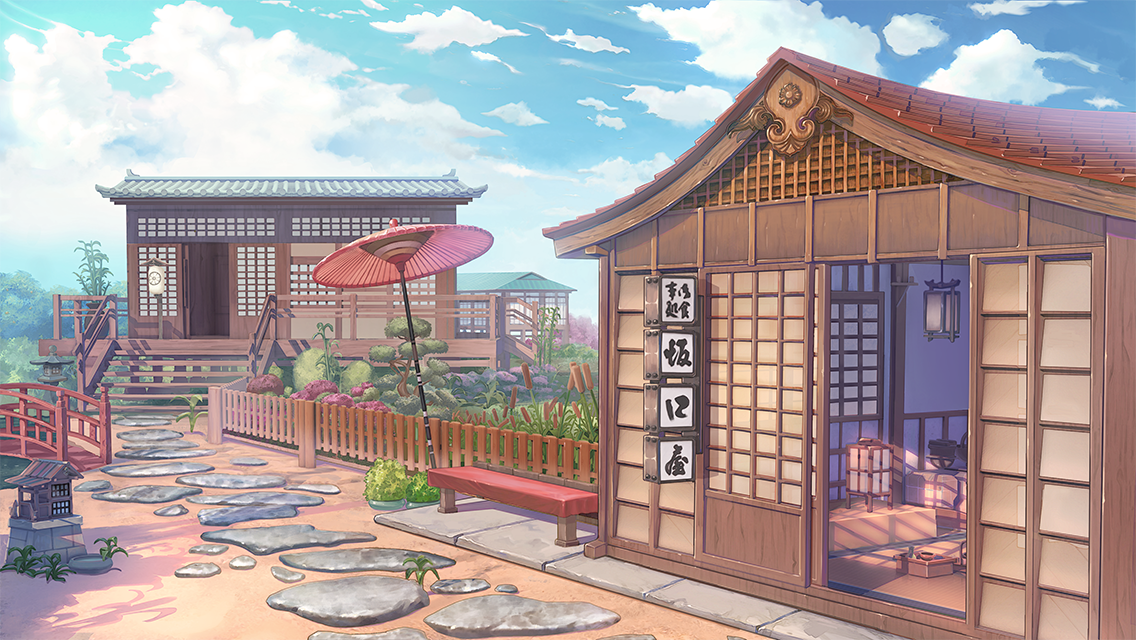
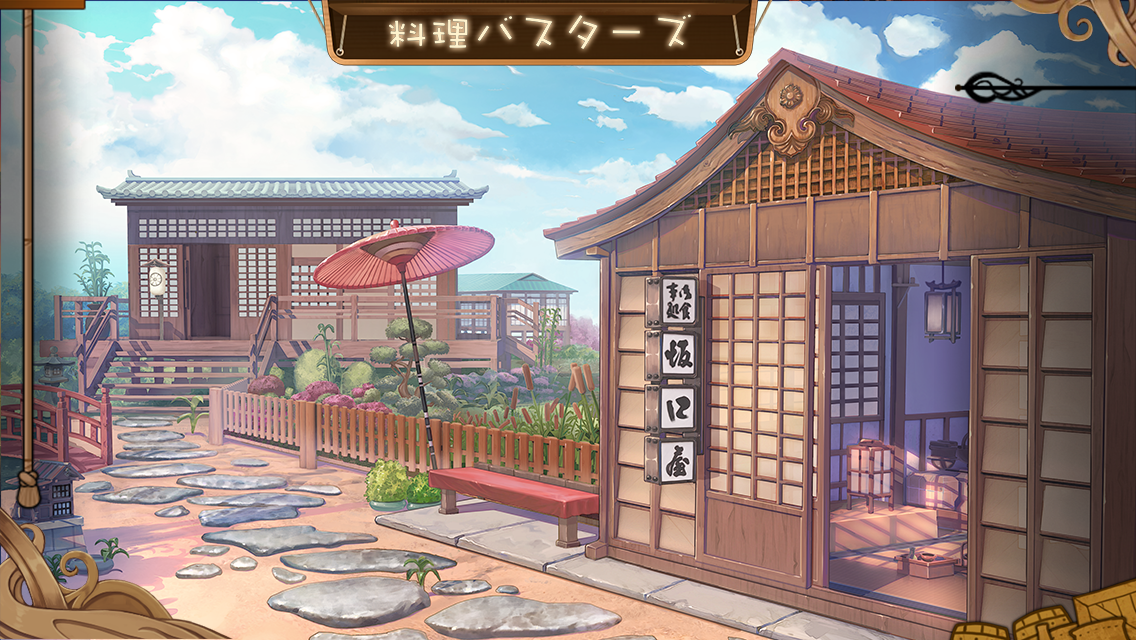
工具改版，竖版工具位mainNana.py,新增六个地图

diff --git a/mainNana.py b/mainNana.py
@@ -43,12 +43,14 @@ class Example(QtGui.QMainWindow):
         self.mainwidget = QtGui.QWidget()
         self.mainwidget.setObjectName("mainWidget")
 
-        bgList = ["bg/homeskin/home_1.png", "bg/homeskin/home_2.png", "bg/homeskin/home_3.png"]
+        bgList = ["bg/homeskin/home_1.png", "bg/homeskin/home_2.png", "bg/homeskin/home_3.png",
+                  "bg/homeskin/home_4.png", "bg/homeskin/home_5.png", "bg/homeskin/home_6.png",
+                  "bg/homeskin/home_7.png"]
         bg = random.choice(bgList)
         self.setStyleSheet(
             "QMainWindow{background-repeat: no-repeat;background-position: center;border-image: url(" + bg + ");}")
 
-        styleqss = open("qss/gameskin.qss", "r")
+        styleqss = open("qss/gameskinNana.qss", "r")
         styleinfo = styleqss.read()
         self.mainwidget.setStyleSheet(styleinfo)
         styleqss.close()
